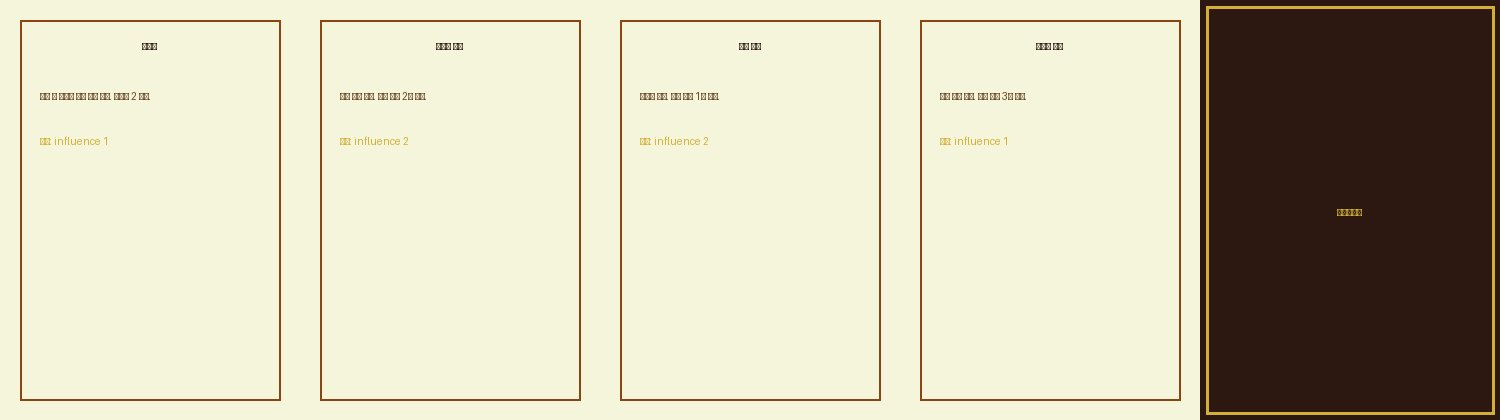
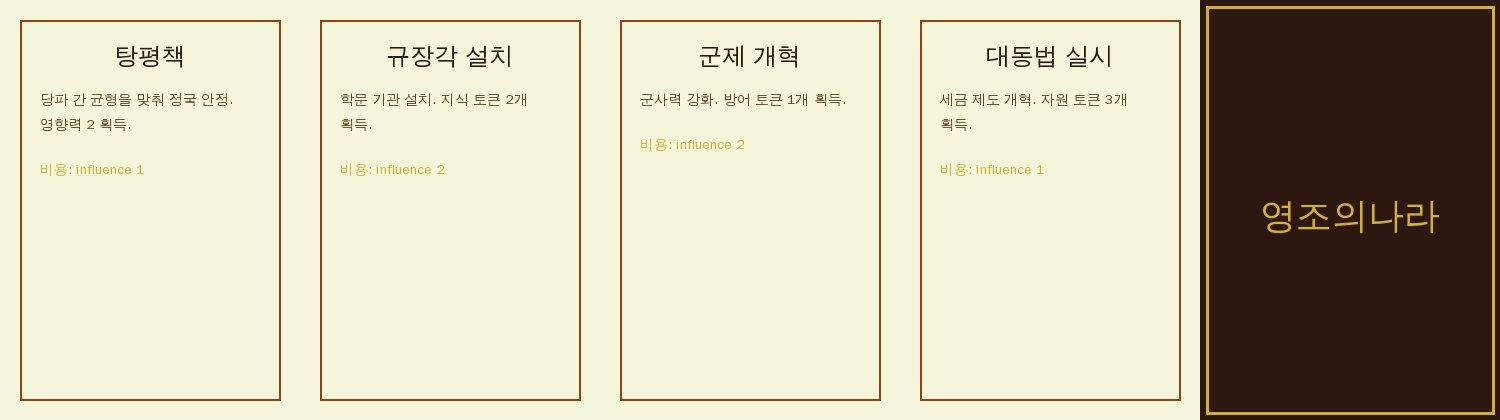
Fix Korean font rendering on Linux
- config.py: replace hardcoded malgun.ttf (Windows-only) with
  _find_korean_font() that searches system paths in priority order,
  settling on wqy-zenhei.ttc on Debian/Ubuntu
- build.py: same font discovery for hidden-card and card-back images;
  added KOREAN_FONT constant with safe load_default() fallback

https://claude.ai/code/session_01QFN3fbq9FdhuuVCKkstzfj

diff --git a/deploy/index.html b/deploy/index.html
@@ -152,7 +152,7 @@
 <header>
   <h1>영조의나라 — Tabletop Simulator 배포 파일</h1>
   <div class="meta">
-    빌드: 2026년 03월 22일 04:12:10 &nbsp;|&nbsp;
+    빌드: 2026년 03월 22일 04:20:25 &nbsp;|&nbsp;
     저장소: darkavengerk/aGameOfYJ @ master
   </div>
 </header>

diff --git a/index.html b/index.html
@@ -152,7 +152,7 @@
 <header>
   <h1>영조의나라 — Tabletop Simulator 배포 파일</h1>
   <div class="meta">
-    빌드: 2026년 03월 22일 04:12:10 &nbsp;|&nbsp;
+    빌드: 2026년 03월 22일 04:20:25 &nbsp;|&nbsp;
     저장소: darkavengerk/aGameOfYJ @ master
   </div>
 </header>

diff --git a/build.py b/build.py
@@ -28,6 +28,27 @@ DEPLOY_IMAGES    = os.path.join(DEPLOY_DIR, 'images')
 
 sys.path.insert(0, PROTOTYPE_SCRIPTS)
 
+# 한글 폰트 — config.py 와 동일한 탐색 순서
+def _find_korean_font():
+    _candidates = [
+        'malgun.ttf',
+        '/usr/share/fonts/truetype/wqy/wqy-zenhei.ttc',
+        '/usr/share/fonts/truetype/fonts-japanese-gothic.ttf',
+        '/usr/share/fonts/opentype/ipafont-gothic/ipag.ttf',
+        '/usr/share/fonts/noto-cjk/NotoSansCJK-Regular.ttc',
+        '/usr/share/fonts/google-noto-cjk/NotoSansCJKkr-Regular.otf',
+        '/System/Library/Fonts/AppleGothic.ttf',
+    ]
+    for path in _candidates:
+        try:
+            ImageFont.truetype(path, 12)
+            return path
+        except Exception:
+            continue
+    return None
+
+KOREAN_FONT = _find_korean_font()
+
 # ─── GitHub Raw URL 설정 (TTS FaceURL / BackURL 에 사용) ──────
 GITHUB_USER   = 'darkavengerk'
 GITHUB_REPO   = 'aGameOfYJ'
@@ -100,7 +121,7 @@ def _make_hidden_card(w: int, h: int) -> Image.Image:
     draw = ImageDraw.Draw(img)
     draw.rectangle([6, 6, w - 6, h - 6], outline='#D4AF37', width=3)
     try:
-        font = ImageFont.truetype('malgun.ttf', 36)
+        font = ImageFont.truetype(KOREAN_FONT, 36) if KOREAN_FONT else ImageFont.load_default()
     except Exception:
         font = ImageFont.load_default()
     text = '영조의나라'
@@ -120,7 +141,7 @@ def _make_back_image() -> Image.Image:
     r = 45
     draw.ellipse([cx - r, cy - r, cx + r, cy + r], outline='#D4AF37', width=3)
     try:
-        font = ImageFont.truetype('malgun.ttf', 28)
+        font = ImageFont.truetype(KOREAN_FONT, 28) if KOREAN_FONT else ImageFont.load_default()
     except Exception:
         font = ImageFont.load_default()
     text = '王'

diff --git a/prototype/scripts/config.py b/prototype/scripts/config.py
@@ -35,12 +35,34 @@ COLORS = {
     'player_yellow': '#FFD700'  # 노란색
 }
 
-# 폰트 설정 (기본 시스템 폰트 사용)
+# 폰트 설정 — 한글 지원 폰트를 우선순위 순으로 탐색
+def _find_korean_font():
+    """시스템에서 사용 가능한 한글 지원 폰트 경로를 반환"""
+    candidates = [
+        'malgun.ttf',                                                      # Windows
+        '/usr/share/fonts/truetype/wqy/wqy-zenhei.ttc',                  # Debian/Ubuntu
+        '/usr/share/fonts/truetype/fonts-japanese-gothic.ttf',            # Debian
+        '/usr/share/fonts/opentype/ipafont-gothic/ipag.ttf',              # Debian
+        '/usr/share/fonts/noto-cjk/NotoSansCJK-Regular.ttc',             # Fedora/RHEL
+        '/usr/share/fonts/google-noto-cjk/NotoSansCJKkr-Regular.otf',    # CentOS
+        '/System/Library/Fonts/AppleGothic.ttf',                          # macOS
+    ]
+    from PIL import ImageFont
+    for path in candidates:
+        try:
+            ImageFont.truetype(path, 12)
+            return path
+        except Exception:
+            continue
+    return None  # load_default() 사용
+
+_KOREAN_FONT = _find_korean_font()
+
 FONTS = {
-    'title': ('malgun.ttf', 24, 'bold'),
-    'subtitle': ('malgun.ttf', 18, 'normal'),
-    'body': ('malgun.ttf', 14, 'normal'),
-    'small': ('malgun.ttf', 12, 'normal')
+    'title':    (_KOREAN_FONT, 24, 'bold'),
+    'subtitle': (_KOREAN_FONT, 18, 'normal'),
+    'body':     (_KOREAN_FONT, 14, 'normal'),
+    'small':    (_KOREAN_FONT, 12, 'normal'),
 }
 
 # 게임 컴포넌트 목록
